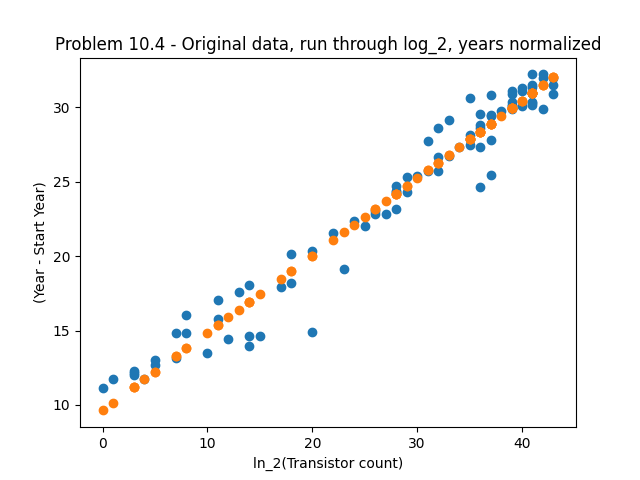
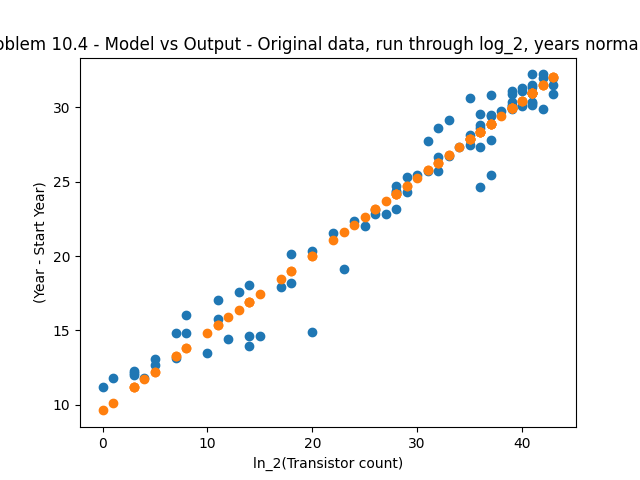
Completed Problem 10.4.

Changed region(s): [[0.0, 0.0625, 1.0, 0.125], [0.1562, 0.7812, 0.1875, 0.8125]]

diff --git a/HW-5/problem_10_4_model.py b/HW-5/problem_10_4_model.py
@@ -133,7 +133,7 @@ def linearize(y):
 
 
 def delinearize(y):
-    return y ** 2
+    return 2 ** y
 
 
 if __name__ == "__main__":
@@ -243,10 +243,38 @@ if __name__ == "__main__":
     # Now we want to compare what our model predicts, with the actual data.
     plt.scatter(x - x[0], linearize(y))
     plt.scatter(x - x[0], model(x_norm, weights[-1]))
-    plt.title("Problem 10.4 - Original data, run through log_2, years normalized")
+    plt.title(
+        "Problem 10.4 - Model vs Output - Original data, run through log_2, years normalized"
+    )
     plt.ylabel("(Year - Start Year)")
     plt.xlabel("ln_2(Transistor count)")
     plt.draw()
     plt.savefig(os.path.join(figs_dir, "problem_10_4_model_raw_vs_cleaned_up_data.png"))
+    plt.close()
+    logger.warning("Model output vs cleaned up data graph produced.")
+
+    # Now we want to compare what our model predicts, with the actual data.
+    plt.scatter(x, linearize(y))
+    plt.scatter(x, model(x_norm, weights[-1]))
+    plt.title("Problem 10.4 - Model vs Output - Original data, run through log_2")
+    plt.ylabel("(Year - Start Year)")
+    plt.xlabel("ln_2(Transistor count)")
+    plt.draw()
+    plt.savefig(
+        os.path.join(
+            figs_dir, "problem_10_4_model_raw_vs_cleaned_up_data_original_years.png"
+        )
+    )
+    plt.close()
+    logger.warning("Model output vs cleaned up data graph produced.")
+
+    # Now we want to compare what our model predicts, with the actual data.
+    plt.scatter(x, y)
+    plt.scatter(x, delinearize(model(x_norm, weights[-1])))
+    plt.title("Problem 10.4 - Model vs Output - Original data, run through log_2")
+    plt.ylabel("(Year - Start Year)")
+    plt.xlabel("ln_2(Transistor count)")
+    plt.draw()
+    plt.savefig(os.path.join(figs_dir, "problem_10_4_model_vs_output.png"))
     plt.close()
     logger.warning("Model output vs cleaned up data graph produced.")
